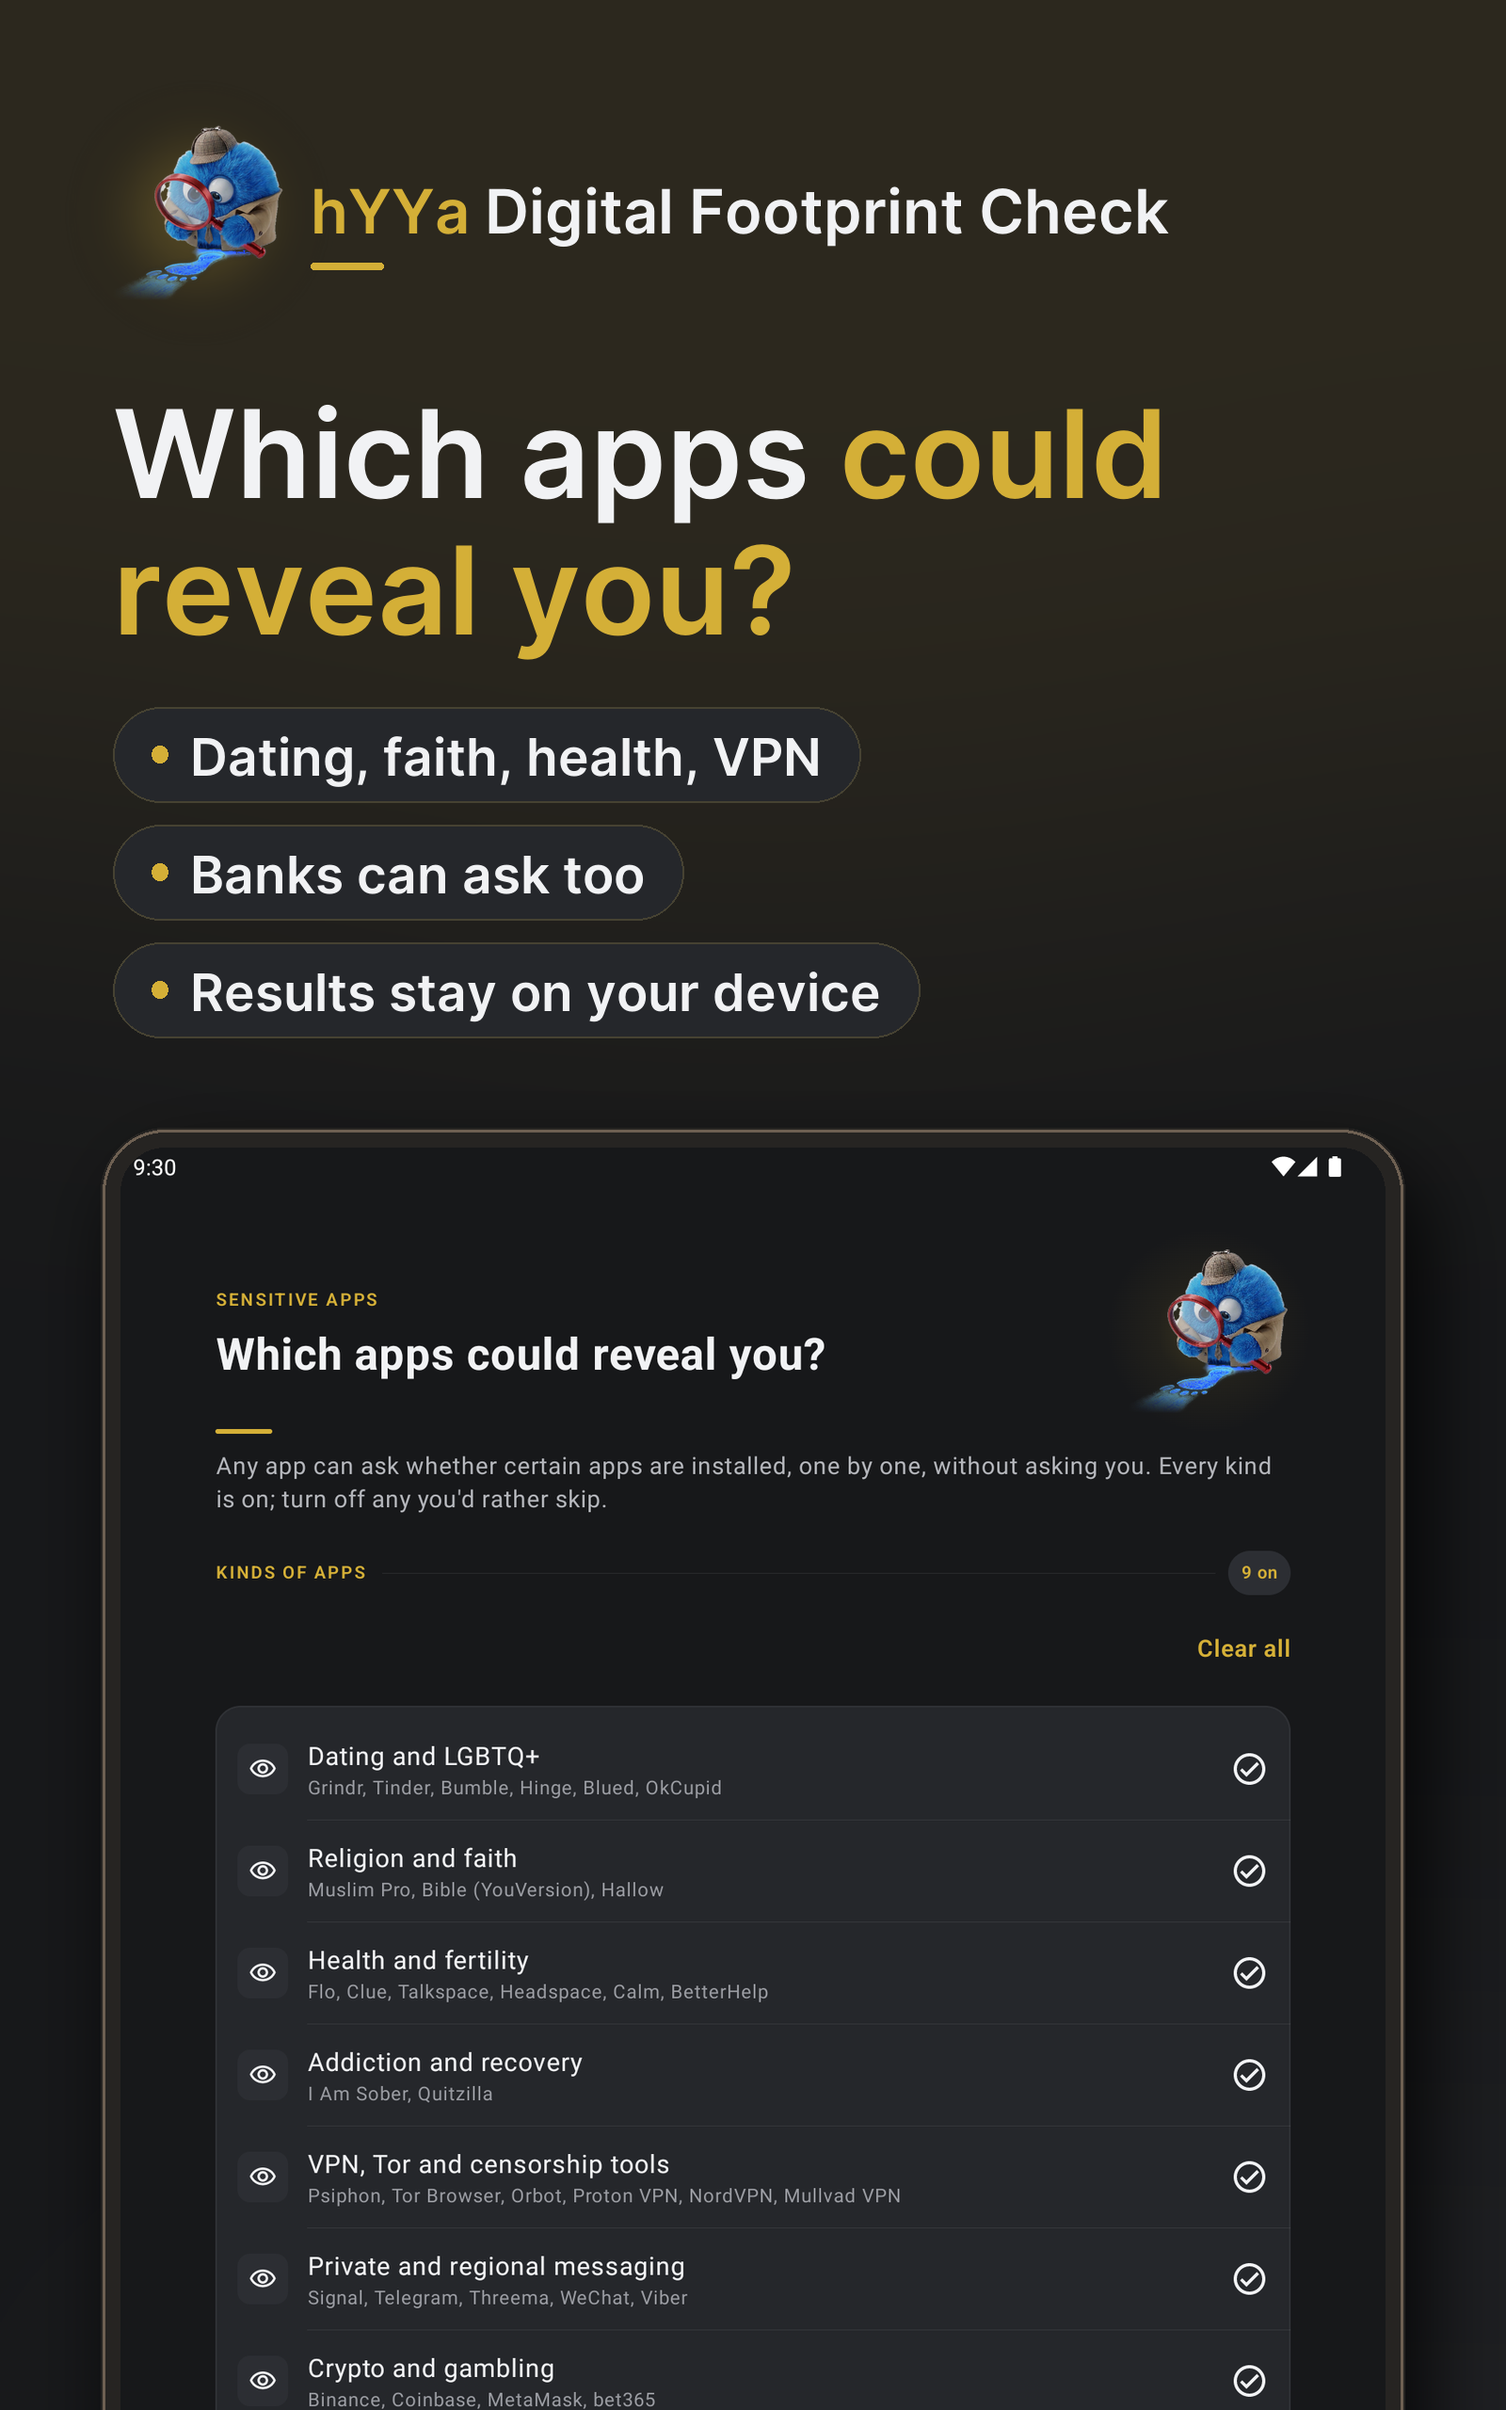
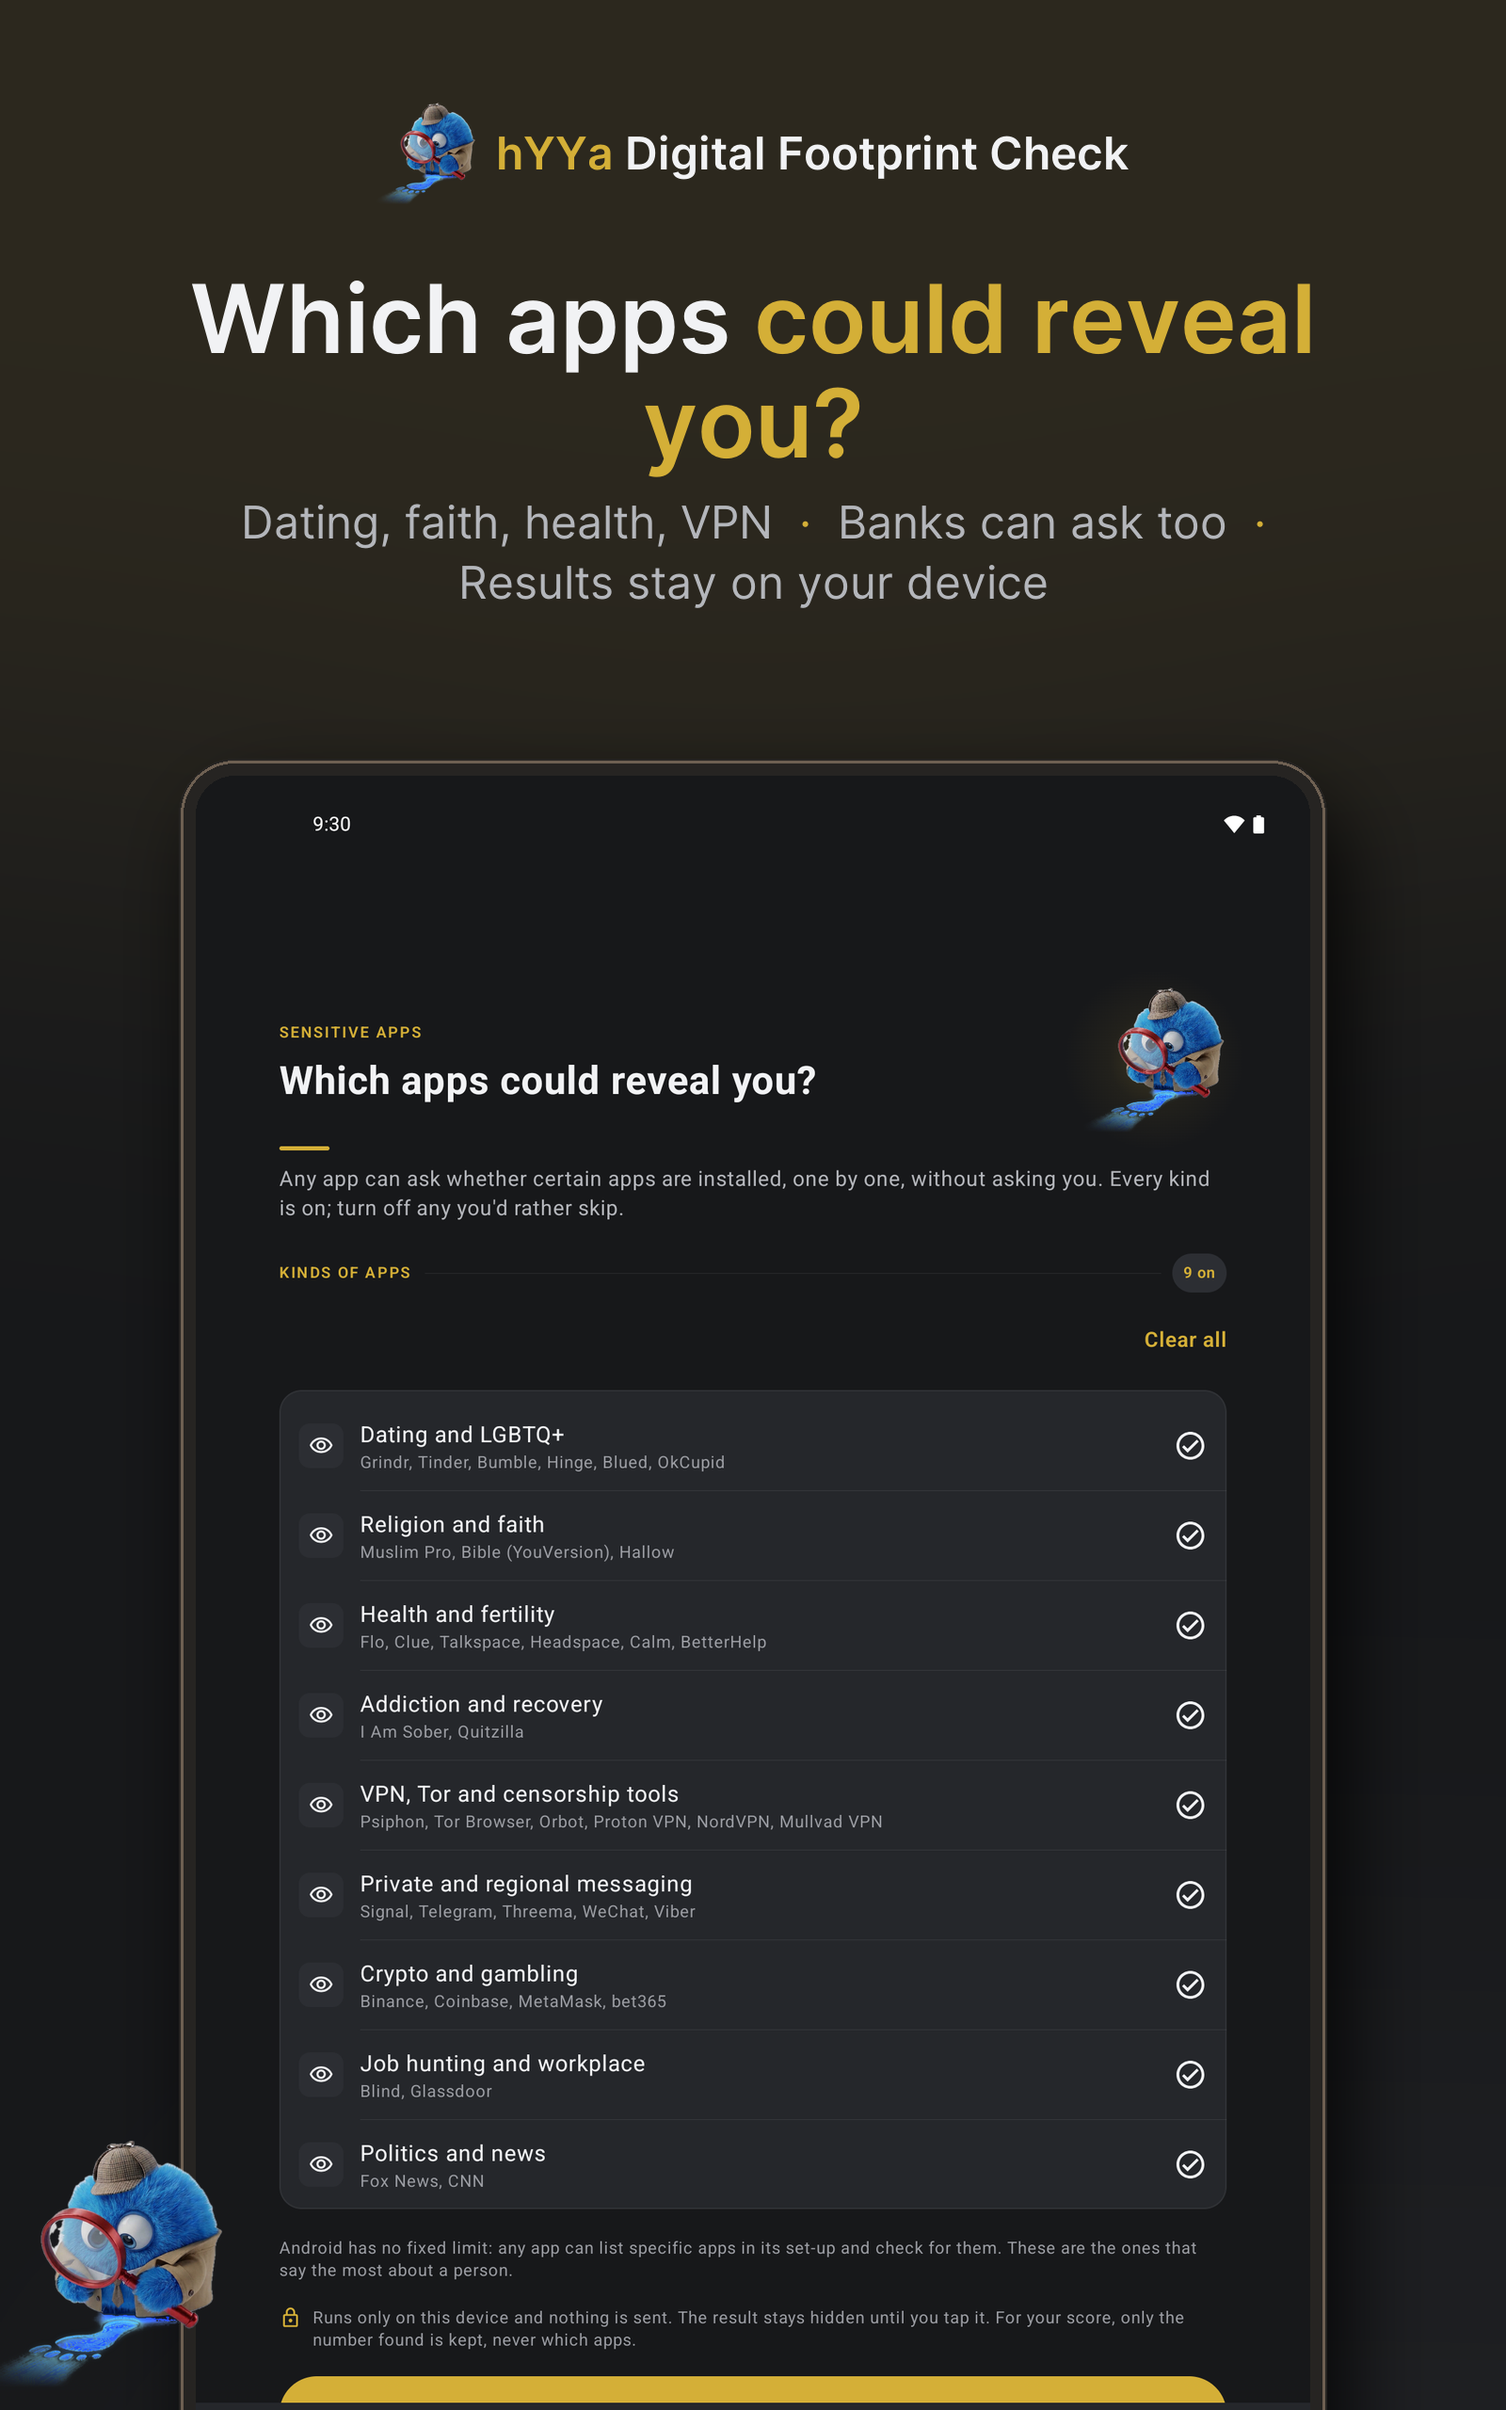
Play slides: phone and tablet in the approved centred style, fresh 1.1.3 captures (staged; uploaded with the Play release)

diff --git a/scripts/make-store-slides.py b/scripts/make-store-slides.py
@@ -204,9 +204,12 @@ def make_centred_slide(spec, raw_dir, w, h, mascot):
     y = centred_lines(d, headline_parts(spec["headline"]), y + int(50 * unit), w * 0.88, int((84 if tablet else 112) * unit), "Bold", w, 1.1)
     y = centred_lines(d, highlight_parts(spec["highlights"]), y + int(22 * unit), w * 0.9, int((40 if tablet else 46) * unit), "Regular", w, 1.35,
                       break_at={DOT})
-    dev_w = int(w * (0.74 if tablet else 0.68))
-    frame = device(Image.open(raw_dir / f"{spec['screen']}.png"), dev_w)
-    dev_y = max(y + int(60 * unit), int(h * (0.315 if tablet else 0.27)))   # the same height on every slide of a set
+    # The same top on every slide of a set; shorter frames (Play phones, 9:16) need more room for the words.
+    dev_y = max(y + int(60 * unit), int(h * (0.315 if tablet else (0.32 if w / h > 0.5 else 0.27))))
+    shot = Image.open(raw_dir / f"{spec['screen']}.png")
+    fit_w = int((h - dev_y - 24 * unit) * shot.width / shot.height)   # the whole device stays in frame
+    dev_w = int(w * 0.74) if tablet else min(int(w * 0.68), fit_w)   # tablets run off the bottom (approved)
+    frame = device(shot, dev_w)
     dev_x = (w - frame.width) // 2
     shadow = Image.new("RGBA", canvas.size, (0, 0, 0, 0))
     ImageDraw.Draw(shadow).rounded_rectangle((dev_x + 20, dev_y + 40, dev_x + frame.width + 20, dev_y + frame.height + 40), 80, fill=(0, 0, 0, 200))
@@ -220,8 +223,8 @@ def make_centred_slide(spec, raw_dir, w, h, mascot):
 
 
 def make_slide(spec, raw_dir, w, h, mascot):
-    if not OPEN_FONT:
-        return make_centred_slide(spec, raw_dir, w, h, mascot)
+    # Every set, App Store and Google Play (owner, 2026-11-23: "and Mac and later to Android"). Play keeps its open font.
+    return make_centred_slide(spec, raw_dir, w, h, mascot)
     canvas = glow_background(w, h).convert("RGBA")
     d = ImageDraw.Draw(canvas)
     margin = int(w * 0.075)
